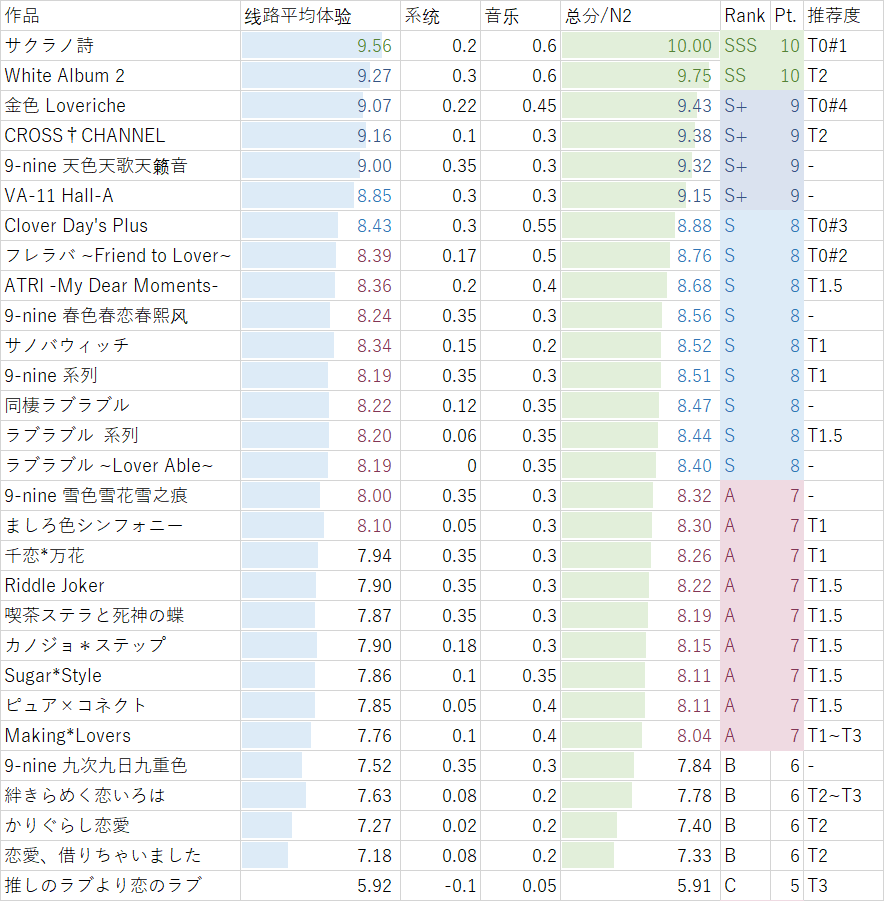
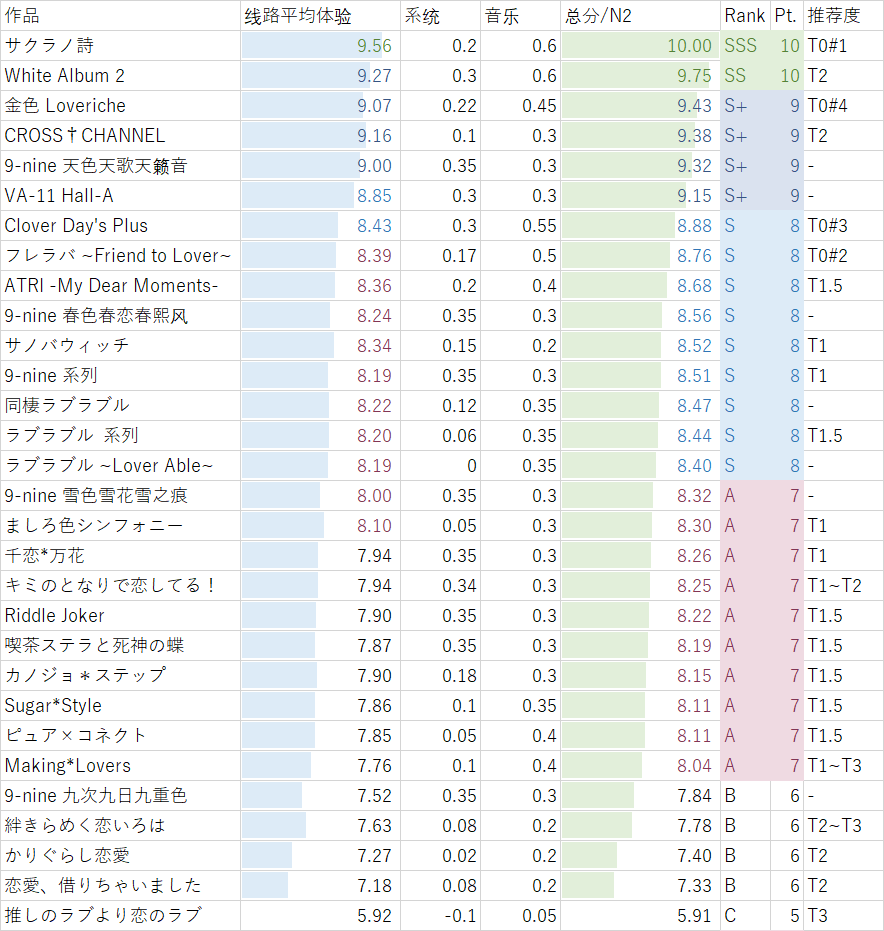
MoeImp tonakoi-nagisa & side

diff --git a/impression/tonakoi.md b/impression/tonakoi.md
@@ -19,11 +19,11 @@ ALcot ハニカム 「キミのとなりで恋してる！」（2014）
 | キミのとなりで恋してる！ | 概览 |
 | :----: | ----: |
 | 共通 |9.50|
-| なぎさ |-|
-| 涼香 |9.55|
+| なぎさ |10.28|
+| 涼香 |9.50|
 | 莉奈 |10.40|
-| 整体评分 |-<br />N-|
-| Rank |-|
+| 整体评分 |10.56<br />N8.25|
+| Rank |A|
 
 ## 共通线
 
@@ -75,9 +75,9 @@ ALcot ハニカム 「キミのとなりで恋してる！」（2014）
 
 印象分 9.1→8.2/10 趣味性 0.0/0.3 情感 0.3/0.5  
 人物刻画 0.2/0.5 剧情 0.2/0.5  
-剧情深度：友情 & 亲情 +0.1  
+剧情深度：友情 & 亲情 +0.05  
 人物（声音 + 作画）(0.2+0.35)/(0.3+0.4)  
-总计 9.55/12.5
+总计 9.5/12.5
 
 从路线分歧到男主意识到自己的感情这一段稍微有点没太看懂，但是大概还是理解了。总之这是一个双方都是始于一见钟情的故事，但是在这之中可没少虐なぎさ，甚至连带着虐了点莉奈，这……
 
@@ -95,31 +95,74 @@ ALcot ハニカム 「キミのとなりで恋してる！」（2014）
 
 值得注意的是，这条线（和莉奈线）的 ED 是没有人声的，而 staff 表分明写着歌：茶太。可以想见在设计的时候应该存在不同女主重要性不同的设计？但是我应该是不会改评分权重的。
 
+## なぎさ
+
+印象分 9.2→8.4/10 趣味性 0.2/0.3 情感 0.3/0.5  
+人物刻画 0.3/0.5 剧情 0.35/0.5  
+人物（声音 + 作画）(0.28+0.35)/(0.3+0.4)  
+剧情深度：友情 & 亲情 +0.1  
+总计 10.28/12.5
+
+明显这条线就奔着真女主路线去了。
+
+这个なぎさ声音太小了，就算音量最大有时候也无济于事。
+
+有的时候就在想，甜过头了就会腻（？）本作这几条线都是，在某些地方上实在是过于超现实以至于「恋爱实感」会比较差。
+
+然后这条线的剧本就是一盘大棋：试图在一条线（算上 Side Story）之内交代并尝试解决男主的女主的基友的还有妹妹的心结，把伏笔交代清楚，这个工作量还是蛮大的，而且明显就是没有剧情锁的 TE 的感觉。
+
+然后说说剧情。虽然说似乎「全世界都在支持着同一个人」这样的剧本见惯了，但是依旧是蛮感人的，拾起了自己曾经放弃过的东西所需要的决心便是如此。所以为什么说 [絆きらめく恋いろは](./mekuiro) 在这方面处理得不好，因为拾起了自己曾经放弃过的东西这方面根本就没写。
+
+故事本身还是不错的，「不要让自己后悔」这个意思也传达到了，整体上还是可以的。尤其是——
+
+我对这种过去和现在重合这种剧本毫无抵抗力。
+
+然后说说这作偏叙诡的东西，剧透警告：
+
+<p style="background: #000">通过故意不吐露事实让你以为妹妹被标枪穿了（莉奈线）/ 奶奶咯血病发命不久矣（本线），然后发现只是撞到头了 / 番茄酱吃多了，就，惊心动魄。看一次觉得很感动（哥哥抱住妹妹 CG.jpg），但是多了就感觉套路了。</p>
+
+ED 给我来了一大段日语听力。算是给每个人都交代了一个不错的结局，而且最后的镜头切换……哭了。
+
+说起来这个游戏每个存档都有对应的章节标题，而更有趣的是每个选项也都有对应的存档标题，给你提示让你放心进行选择。当然 Clover Day's 也有存档标题，但是没有像这作这种神奇的提示。  
+但是值得一提的是这个「オススメ！」，最初推的时候怎么看怎么都像官方夹带私货啊？
+
+![オススメ！](../tonakoi-osusume.png)
+
+推完这条线明白了，莉奈标推荐的理由其实是因为なぎさ线算是真女主 TE 的意味了所以放到后面推的体验会大幅度上升，绝对不亏。
+
+## Profile & Side Story
+
+（计入系统分）  
+Profile 里的路人介绍 +0.01  
+Profile 主角介绍 & Side Story +0.2
+
+需要特别提到的是 Side Story。本来我是想单独拿出来给个权重的但是果然还是算了。通过 Side Story 的其他人的视角去发现这个故事的不同方面，是一件非常有趣的事情。
+
+这一作通过 Side Story 和人物介绍，在主线故事之外也提供了许多值得探索和发现的故事、伏笔和要素，对于这样的作品来说内容变多了当然是好事，增添了些探索感，也补充了一些故事情节和人物的刻画。有些剧情只是补充发糖（虽然也，微妙！）有些则是对故事背景的扩充，很重要所以不要错过。（而且我觉得很多东西写得比本篇内容要好）
+
+然后这作连女子生徒 A 和学园长，不如说出现过的每个人都有名字和设定的，有点意思。
+
+题外话：犹豫了很久 Side Story 到底应该按照线路标准评分还是直接算进系统里，最后决定还是就这样吧，主要原因是 Side Story 内容实在是丰富，而且也难以按照线路标准评分。
+
+Side Story 有一部分就是单纯的福利日常，但是真正值得一提的妹妹和基友那几本剧情，是给这一作的一个重要升华。在这样的背景下，包括基友对女人感到厌烦的原因也好，妹妹不能推的原因也好，都完全交代清楚了，而且每一个都是足够感人的小故事。
+
+在此基础上，再去看 Profile 里面有关于妹妹、基友和奶奶的介绍——不如说，有关于这几个人的结局，就感觉，这些人真的是被这个世界温柔对待着啊。
+
+每个人都提供了一个美好的结局。
+
 ## 整体评价
 
-各线路平均 -  
+各线路平均 9.92  
 系统：SDCG +0.05  
 场景过场对话 +0.02  
 人物表情动态 +0.05  
 存档小标题 +0.01  
-Profile 里的路人介绍 +0.01  
-Side Story +0.1  
+Profile & Side Story +0.21  
 音乐 +0.3  
-总计 -/N- 待定
+总计 10.56/N8.25 A
 
-logo 不好看。妹妹不能推。过场的语音听不懂不过能听懂的部分还都挺有意思的。
+推荐攻略顺序：总之なぎさ放在最后，然后记得去看完每一个 Side Story 和每一个主角的 Profile。
 
-说起来这个游戏每个存档都有对应的章节标题，而更有趣的是每个选项也都有对应的存档标题，给你提示让你放心进行选择。当然 Clover Day's 也有存档标题，但是没有像这作这种神奇的提示。  
-但是这个「オススメ！」怎么看怎么都像官方夹带私货啊？
+logo 不好看。过场的语音听不懂不过能听懂的部分还都挺有意思的。
 
-![オススメ！](../tonakoi-osusume.png)
-
-~~看到一个说法：莉奈标推荐的理由其实是因为なぎさ线有点真女主 TE 的意味了所以希望放到后面推。~~
-
-然后这作连女子生徒 A 和学园长，不如说出现过的每个人都有名字和设定的，有点意思。
-
-需要特别提到的是 Side Story。本来我是想单独拿出来给个权重的但是果然还是算了。通过 Side Story 的其他人的视角去发现这个故事的不同方面，是一件非常有趣的事情。
-
-这一作通过 Side Story 和人物介绍，在主线故事之外也提供了许多值得探索和发现的故事、伏笔和要素，对于这样的作品来说内容变多了当然是好事，增添了些探索感，也补充了一些故事情节和人物的刻画。有些剧情只是补充发糖（虽然也，微妙！）有些则是对故事背景的扩充，很重要所以不要错过。
-
-题外话：犹豫了很久 Side Story 到底应该按照线路标准评分还是直接算进系统里，最后决定还是就这样吧，主要原因是 Side Story 内容实在是丰富，而且也难以按照线路标准评分。
+剩下想说的都前面说完了，就这样。

diff --git a/impression.md b/impression.md
@@ -441,13 +441,13 @@ permalink: /impression
     </tr>
     <tr>
       <td style="text-align: right">26</td>
-      <td><a href="http://yoro.xyz/impression/tonakoi">キミのとなりで恋してる！</a>（未完成）</td>
-      <td style="text-align: right">-</td>
-      <td style="text-align: center">-</td>
+      <td><a href="http://yoro.xyz/impression/tonakoi">キミのとなりで恋してる！</a></td>
+      <td style="text-align: right">8.25</td>
+      <td style="text-align: center">A</td>
       <td style="text-align: right">292×7.47<br>#1610</td>
       <td style="text-align: right">604×78<br>(80)</td>
       <td style="text-align: center">甜萌</td>
-      <td style="text-align: center">T2</td>
+      <td style="text-align: center">T1⁹</td>
     </tr>
   </tbody>
 </table>
@@ -470,6 +470,8 @@ permalink: /impression
 ⁷ 首先我觉得这个作品算上 PSP 版的纱凪线才算完整，但是又不能包含结月线，但是纱凪线只有 PSP 版有，所以以「最初发行平台的最新版本」作为评判标准的话就只能舍弃纱凪线了。如果算上纱凪线是 10.60 N8.40 Rank S，可是算不得。
 
 ⁸ 暂定分类，其实泣度也没那么高（？）
+
+⁹ キミのとなりで恋してる！ 的推荐度按线路给出。なぎさ线 T1，莉奈线 T1.5，凉香线 T2。
 
 注：MoeImp 对于不同类别的作品采取的评分标准略有区别。虽然**不推荐**将不同类别作品评分和其他作品直接比较（主要是直接比较的话最好的说法也是各有千秋），但是非要说的话其实在决定分数和评分标准时并不是完全没有考虑不同作品评分的可比性的。
 
